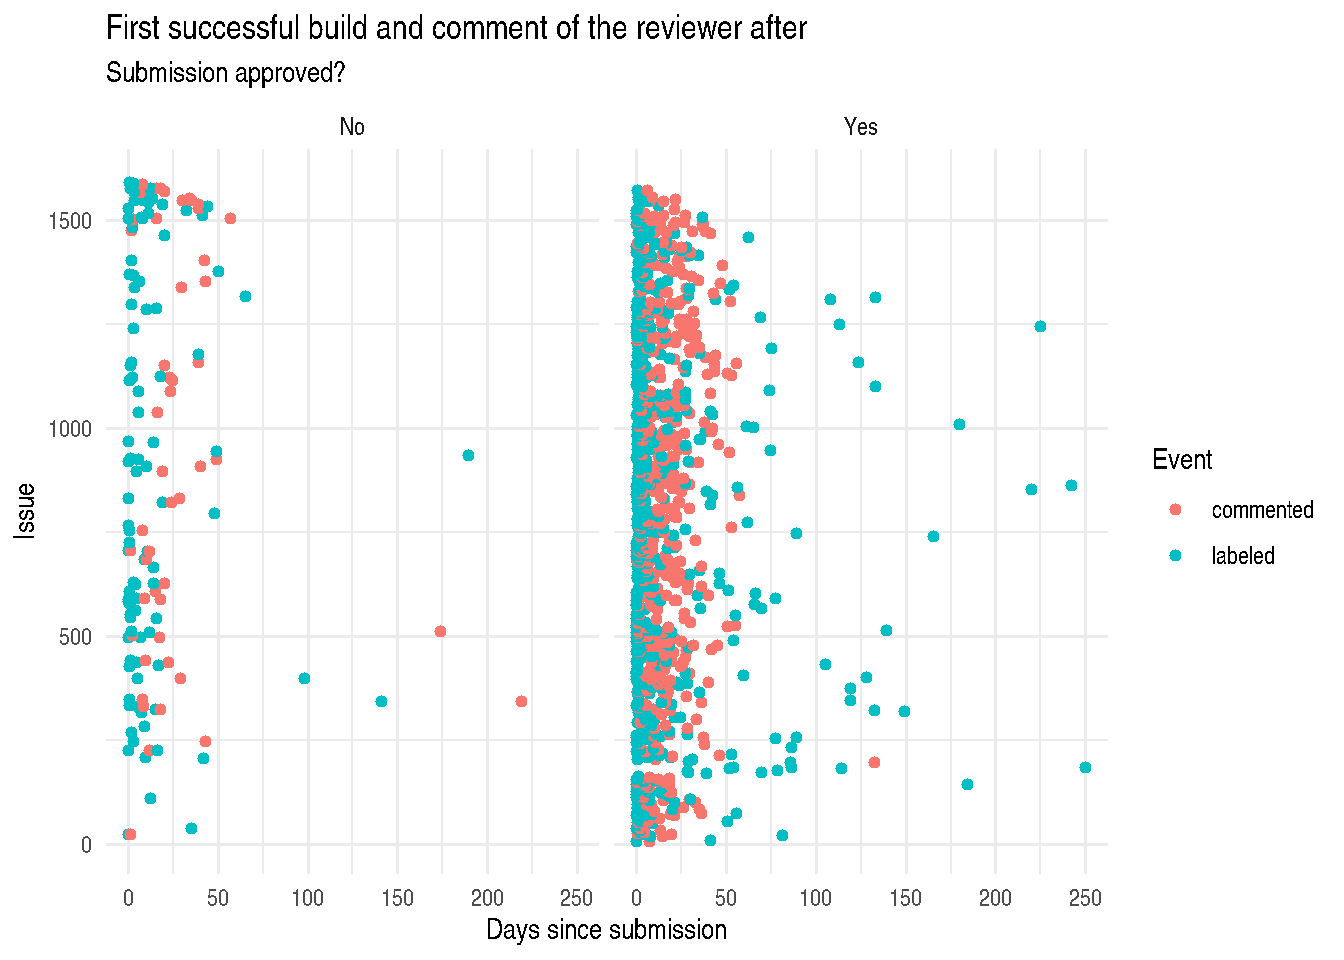
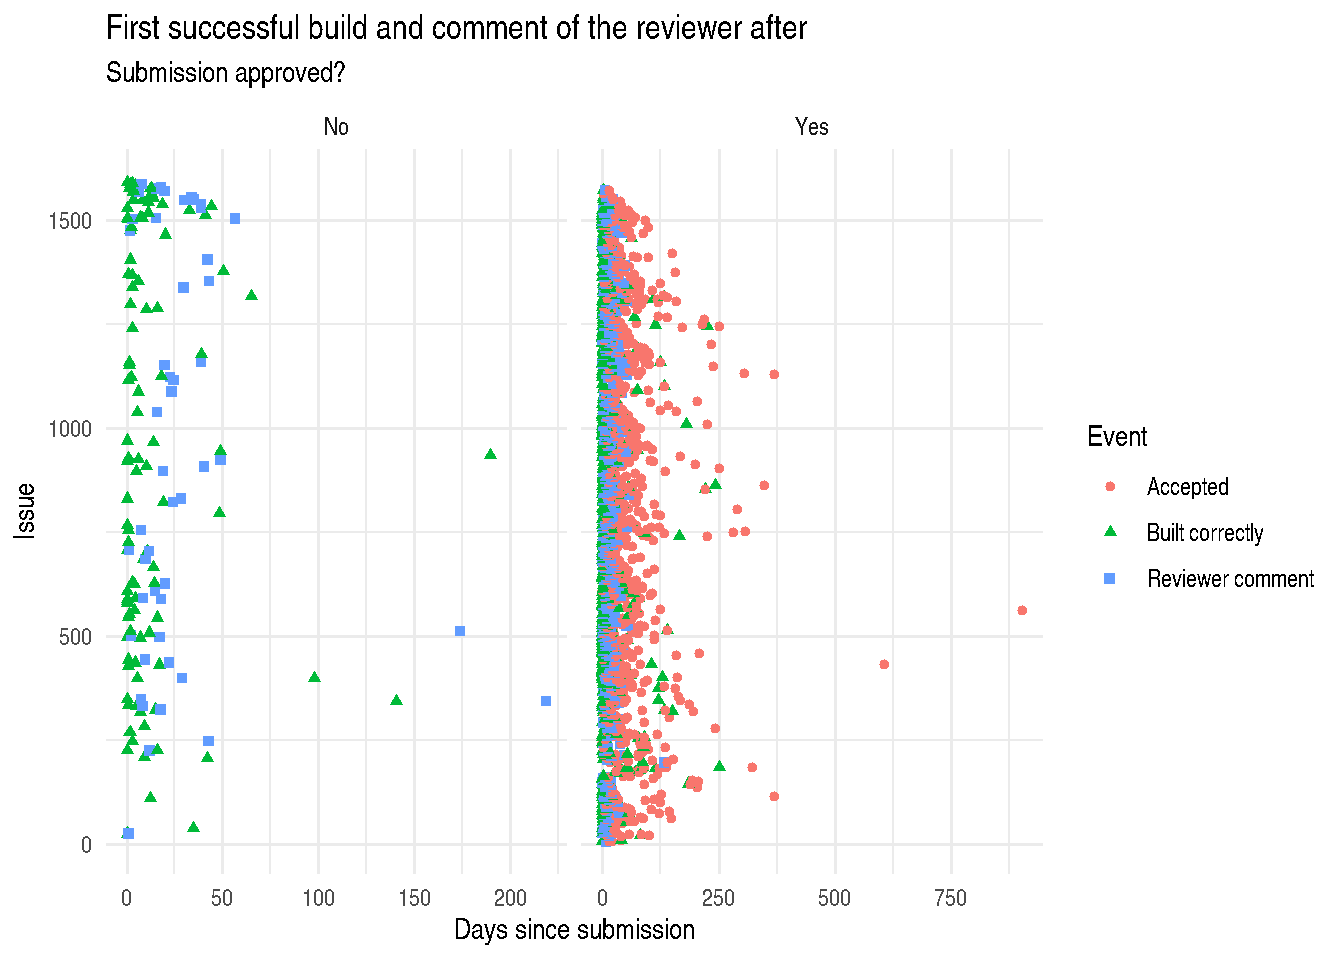
Update messages and plots

diff --git a/content/post/2020-07-09-bioconductor-submissions-reviews.en.html b/content/post/2020-07-09-bioconductor-submissions-reviews.en.html
@@ -185,23 +185,42 @@ This might indicate that the discussion happens before and/or that the process a
 <p>An overview of the submissions, when was the first successful build and when was the first comment of the reviewer after the successful build.</p>
 <p><img src="/post/2020-07-09-bioconductor-submissions-reviews.en_files/figure-html/time_comment-1.png" width="672" /></p>
 <p>Usually it takes close to 3 days to have the first successful build on Bioconductor (if there is any as we have seen).</p>
-<p>After it it takes close to 10 days to the reviewer to comment.
-This comment might be the review of the package, as it is only done after the submissions passes all the checks.</p>
-<p><img src="/post/2020-07-09-bioconductor-submissions-reviews.en_files/figure-html/td_plot-1.png" width="672" /><img src="/post/2020-07-09-bioconductor-submissions-reviews.en_files/figure-html/td_plot-2.png" width="672" /><img src="/post/2020-07-09-bioconductor-submissions-reviews.en_files/figure-html/td_plot-3.png" width="672" /></p>
-<p>Usually the packages that get approved take a bit longer to be commented.</p>
+<p>After it it takes close to 10 days to the reviewer to comment.</p>
+<p><img src="/post/2020-07-09-bioconductor-submissions-reviews.en_files/figure-html/time_accepted-1.png" width="672" /></p>
+<p>This comment might be the review of the package, as it is only done after the submissions passes all the checks.</p>
+<p><img src="/post/2020-07-09-bioconductor-submissions-reviews.en_files/figure-html/time_build_plot-1.png" width="672" /></p>
+<p>A we have seen on the first table the main blocking point is that many submitted packages do not successfully build on Bioconductor servers.<br />
+But as we can see approved packages built slightly earlier.
+However the time between the first successful built and the first reviewer comment might be different, let’s check:</p>
+<p><img src="/post/2020-07-09-bioconductor-submissions-reviews.en_files/figure-html/time_review_plot_zoom-1.png" width="672" /></p>
+<p>We can see there aren’t many differences on the time between the first successful built and the first reviewer comment.
+Once a package has built and has the review it takes some time to address the comments till it is accepted:</p>
+<p><img src="/post/2020-07-09-bioconductor-submissions-reviews.en_files/figure-html/acceptance_plot-1.png" width="672" /></p>
+<p>We can see that since submission it usually takes two weeks to have the package accepted.
+However, the time between the first reviewer comment (after the first successful built) and the acceptance of the package might be different:</p>
+<p><img src="/post/2020-07-09-bioconductor-submissions-reviews.en_files/figure-html/time_acceptance_plot-1.png" width="672" /></p>
+<p>We can see that few packages take more than 50 days till acceptance.
+To have a complete picture we can see all the issues on a single plot with how much do they take to move to the next phase:</p>
+<p><img src="/post/2020-07-09-bioconductor-submissions-reviews.en_files/figure-html/times_phases-1.png" width="672" /></p>
+<p>We can see odd packages like the one that built correctly in short time but had some issues and finally got renamed and submitted on a different issue, or the issue that took more than 100 days to build correctly for the first time (and was later rejected).</p>
+<p>We can see that the steps that take more time is doing the review and later modify the package to address the comments pointed by the reviewers.</p>
 <table>
 <colgroup>
-<col width="8%" />
+<col width="4%" />
+<col width="13%" />
 <col width="23%" />
-<col width="33%" />
-<col width="35%" />
+<col width="8%" />
+<col width="25%" />
+<col width="23%" />
 </colgroup>
 <thead>
 <tr class="header">
 <th align="left">Approved</th>
-<th align="right">Days to succcessful build</th>
-<th align="right">Days to reviewer comment after build</th>
-<th align="right">Days between build and reviewer comment</th>
+<th align="right">Succcessful built (days)</th>
+<th align="right">First reviewer comment after build (days)</th>
+<th align="right">Accepted (days)</th>
+<th align="right">Time between build and reviewer comment (days)</th>
+<th align="right">Time between review and acceptance (days)</th>
 </tr>
 </thead>
 <tbody>
@@ -209,23 +228,28 @@ This comment might be the review of the package, as it is only done after the su
 <td align="left">No</td>
 <td align="right">4</td>
 <td align="right">20</td>
+<td align="right">NA</td>
 <td align="right">17</td>
+<td align="right">NA</td>
 </tr>
 <tr class="even">
 <td align="left">Yes</td>
 <td align="right">3</td>
 <td align="right">14</td>
+<td align="right">37</td>
 <td align="right">10</td>
+<td align="right">19</td>
 </tr>
 </tbody>
 </table>
-<p>These measures are with median days</p>
+<p>Looking at the median times of each step we can clearly see the same pattern.</p>
 </div>
 <div id="conclusions" class="section level1">
 <h1>Conclusions</h1>
 <p>Most of the problems with the submissions are formal and automatically detected by the bot.
 Next come problems from the package itself not passing the checks performed on Bioconductor.
 So if you want to have your package included make sure that the package builds on Bioconductor and respond fast to the feedback provided by the bot.</p>
+<p>On the next post I’ll explore the data from <a href="https://ropensci.org/">rOpenSci</a>, which also does the <a href="https://github.com/ropensci/software-review/issues/">reviews on GitHub</a>.</p>
 <div id="reproducibility" class="section level3">
 <h3>Reproducibility</h3>
 <details>
